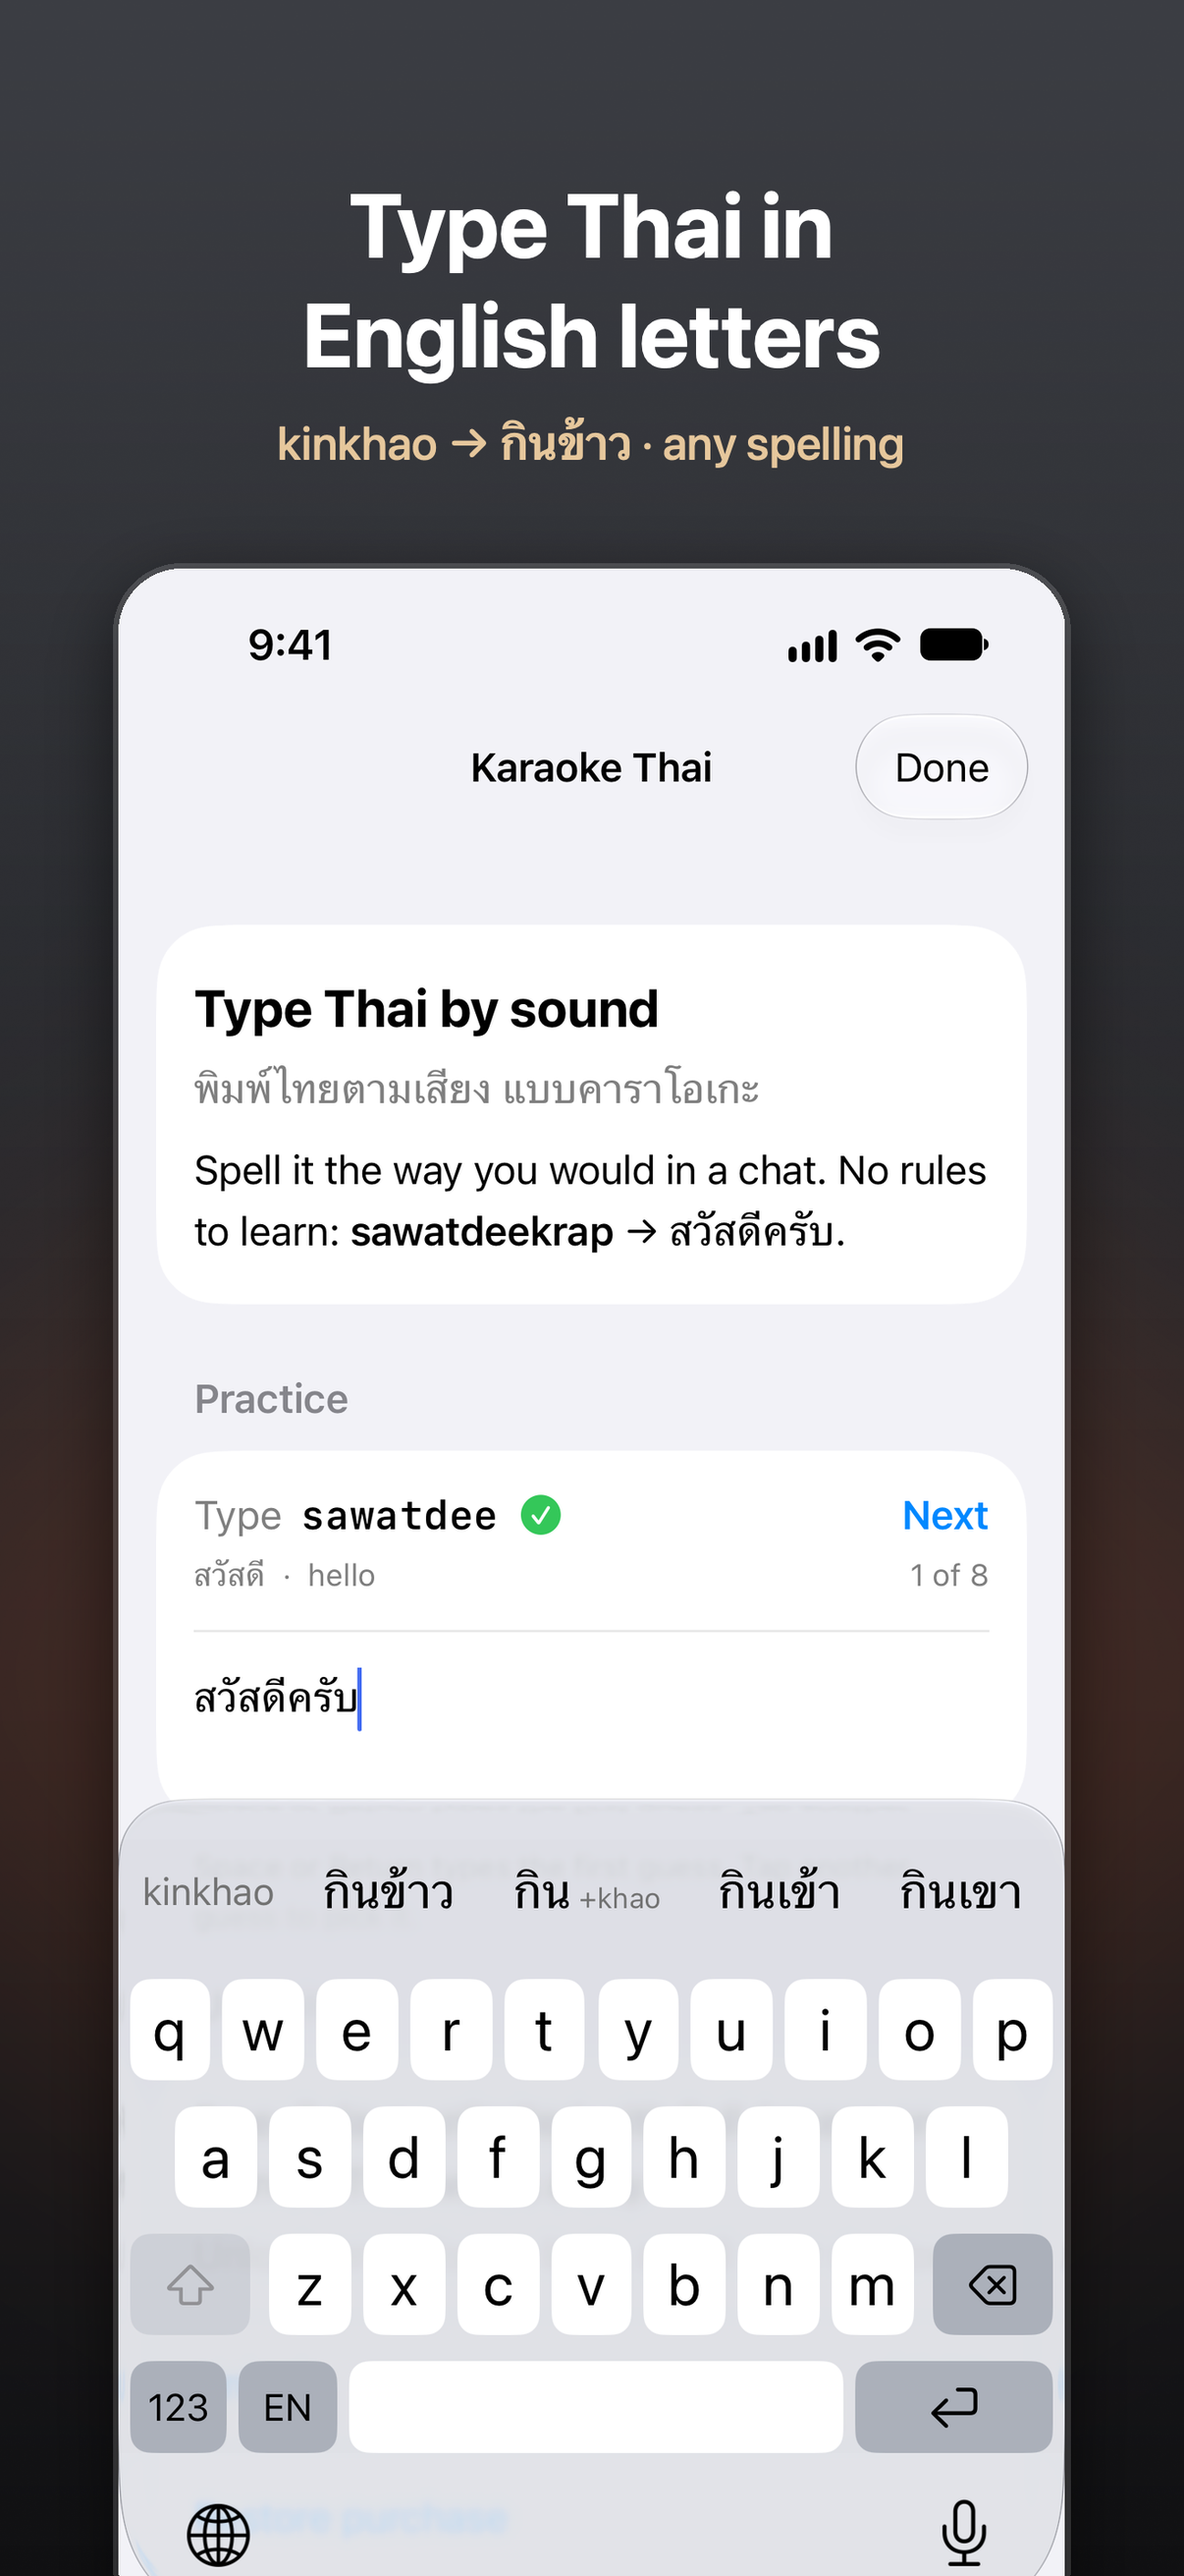
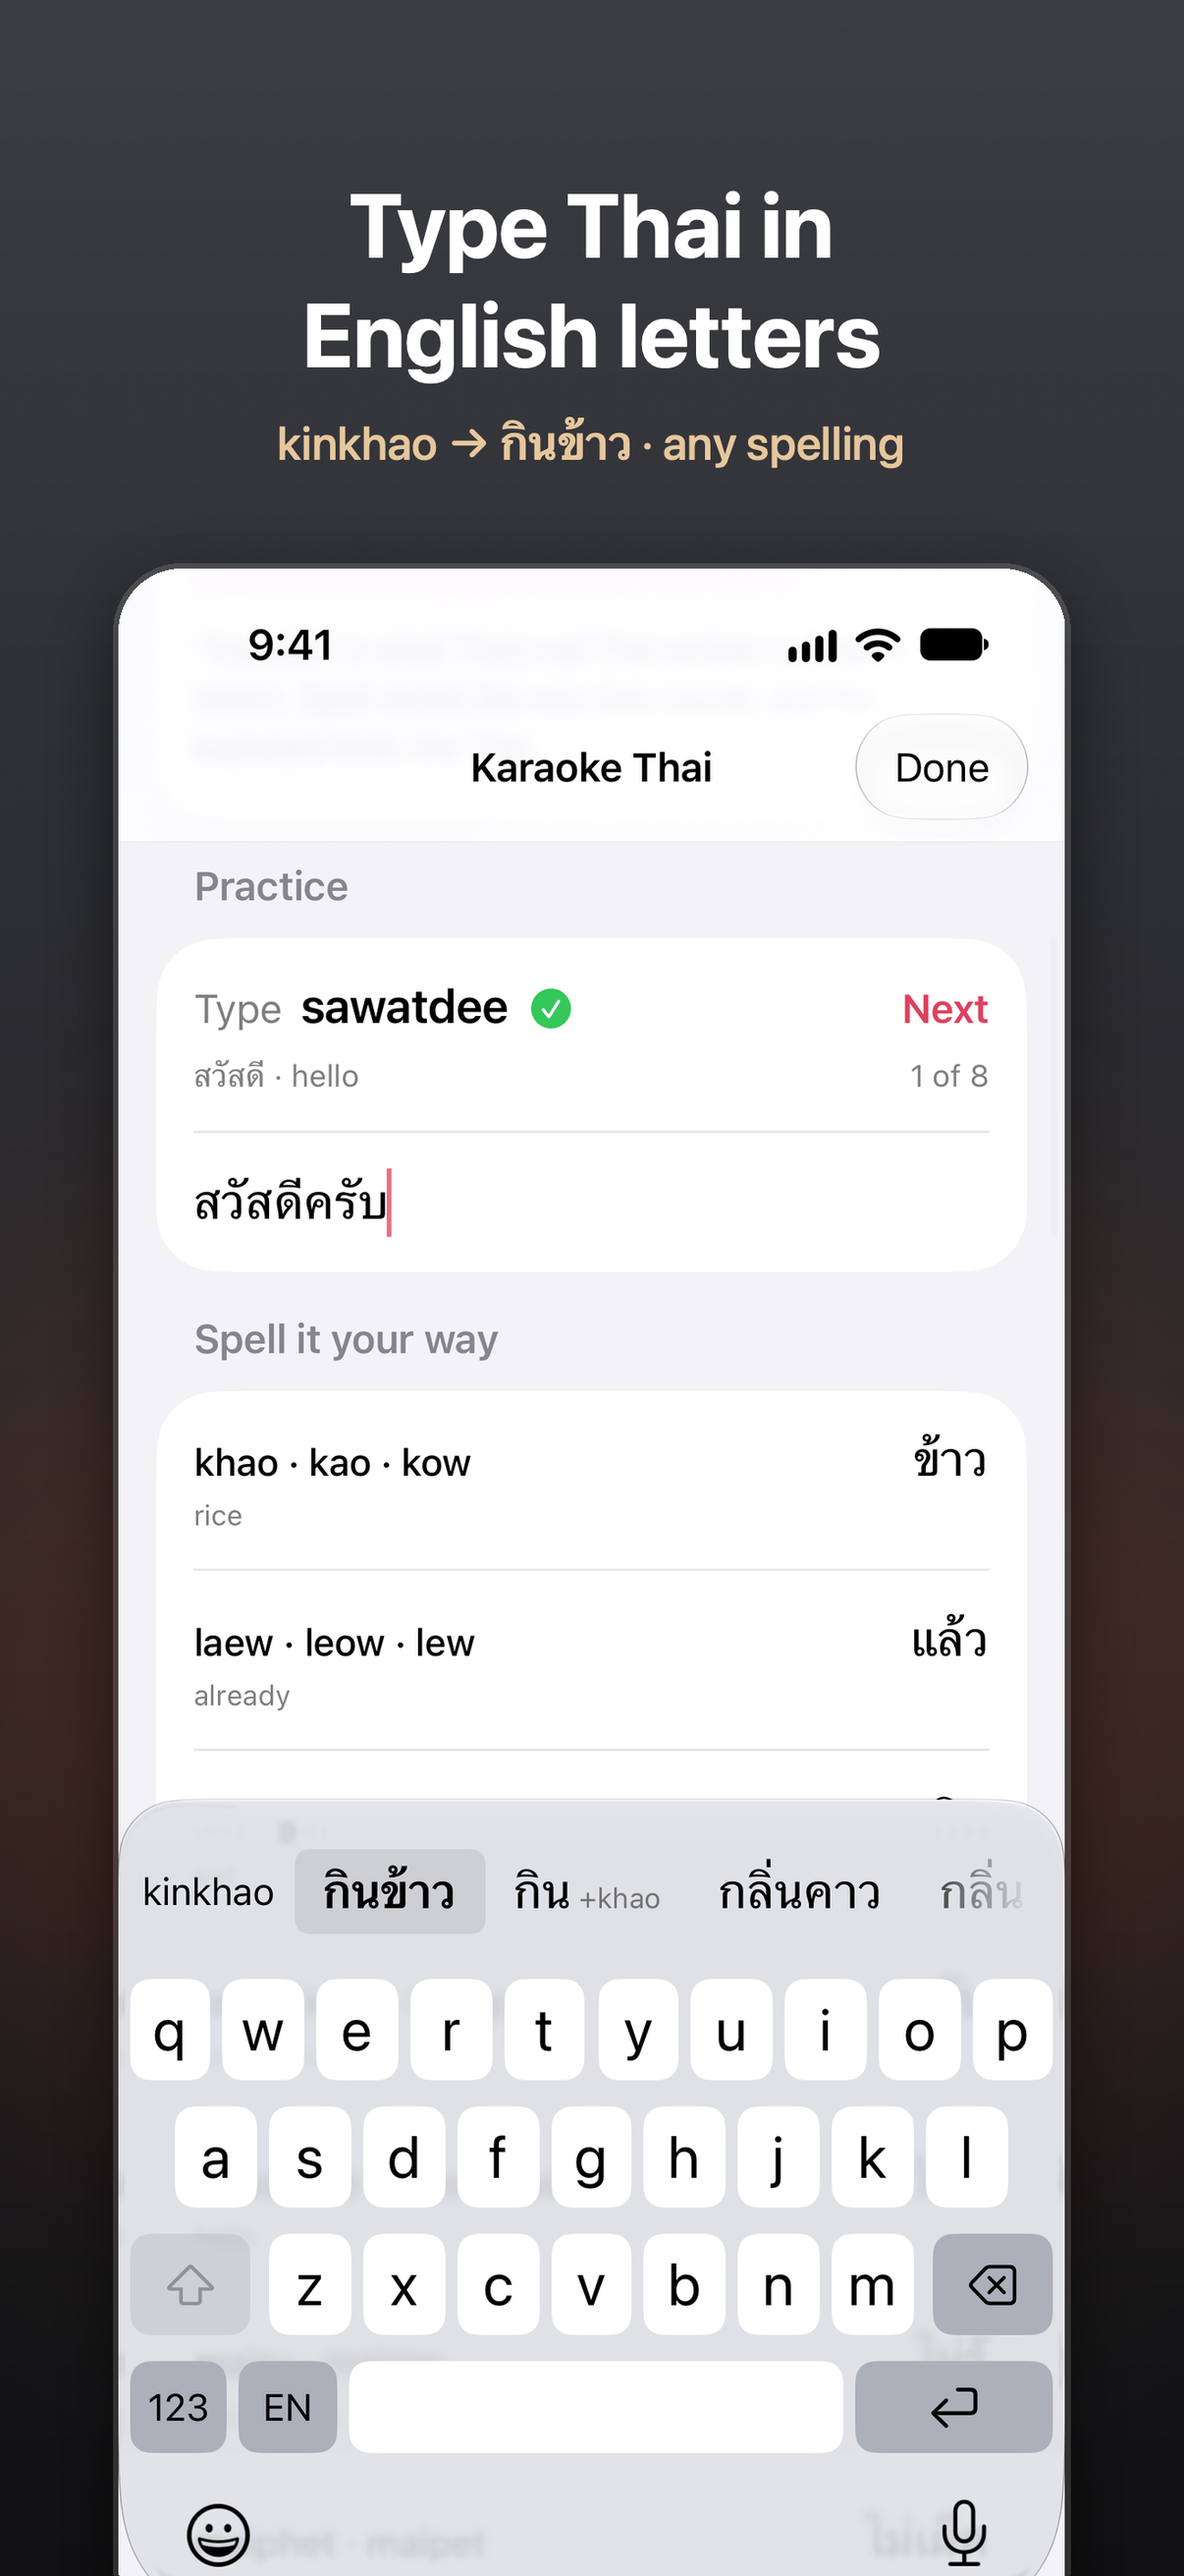
Store screenshots: retake with the 1.1.4 UI
The phone and iPad screens inside the store screenshots showed the old
Practice screen. Retaken on the iPhone 17 Pro and iPad Pro 13" simulators
with the new guess bar (first guess highlighted), a 9:41 status bar with a
full battery, and the free week on. Captions are unchanged. These go up with
1.1.5: 1.1.4 is in review, so its screenshots are locked.

- iPhone 1: สวัสดี typed, krap's guesses showing (ครับ highlighted). An empty
  field would show the "No Thai guesses?" hint next to Thai guesses.
- iPhone 2 and iPad: สวัสดีครับ typed, kinkhao's guesses showing.
- DemoUITests: DEMO_DRAG scrolls the page so no card sits half under the
  navigation bar.
- caption_shots.py: smaller corner radius on the iPad frame, which cut off
  the status bar time.
- tools/store_shots.sh: the capture script (12-hour US locale while
  shooting, since simctl formats the time with the device's region).

diff --git a/ios/DemoUITests/DemoUITests.swift b/ios/DemoUITests/DemoUITests.swift
@@ -79,6 +79,14 @@ final class DemoUITests: XCTestCase {
             pause(1.6)
         }
         pause(1.5)
+        // DEMO_DRAG=points: drag the page up by that much near the top (keeps the keyboard up),
+        // so a store screenshot doesn't have half a card under the navigation bar.
+        if let d = env["DEMO_DRAG"].flatMap(Double.init) {
+            let from = screen.withOffset(CGVector(dx: 200, dy: 140 + d))
+            from.press(forDuration: 0.1, thenDragTo: screen.withOffset(CGVector(dx: 200, dy: 140)),
+                       withVelocity: .slow, thenHoldForDuration: 0.5)
+            pause(1)
+        }
         if let path = env["DEMO_SHOT"] {
             try XCUIScreen.main.screenshot().pngRepresentation.write(to: URL(fileURLWithPath: path))
         }

diff --git a/tools/caption_shots.py b/tools/caption_shots.py
@@ -113,18 +113,19 @@ def make(raw, size, head, sub):
     room_w = int(W * 0.84)
     k = min(room_w / shot.width, room_h / shot.height)
     shot = shot.resize((int(shot.width * k), int(shot.height * k)), Image.LANCZOS)
-    frame = rounded(shot, int(70 * scale))
+    radius = int((40 if W > 1500 else 70) * scale)  # iPad: its status bar sits close to the corner
+    frame = rounded(shot, radius)
     x = (W - frame.width) // 2
     # soft drop shadow, then a hairline edge so the phone lifts off the background
     shadow = Image.new("L", size, 0)
     ImageDraw.Draw(shadow).rounded_rectangle([x, top + int(24 * scale), x + frame.width, top + frame.height + int(24 * scale)],
-                                             int(70 * scale), fill=150)
+                                             radius, fill=150)
     shadow = shadow.filter(ImageFilter.GaussianBlur(40 * scale))
     canvas = Image.composite(Image.new("RGB", size, (0, 0, 0)), canvas, shadow)
     edge = Image.new("RGBA", size, (0, 0, 0, 0))
     pad = int(6 * scale)
     ImageDraw.Draw(edge).rounded_rectangle([x - pad, top - pad, x + frame.width + pad, top + frame.height + pad],
-                                           int(70 * scale) + pad, fill=(255, 255, 255, 38))
+                                           radius + pad, fill=(255, 255, 255, 38))
     canvas.paste(edge, (0, 0), edge)
     canvas.paste(frame, (x, top), frame)
     return canvas
